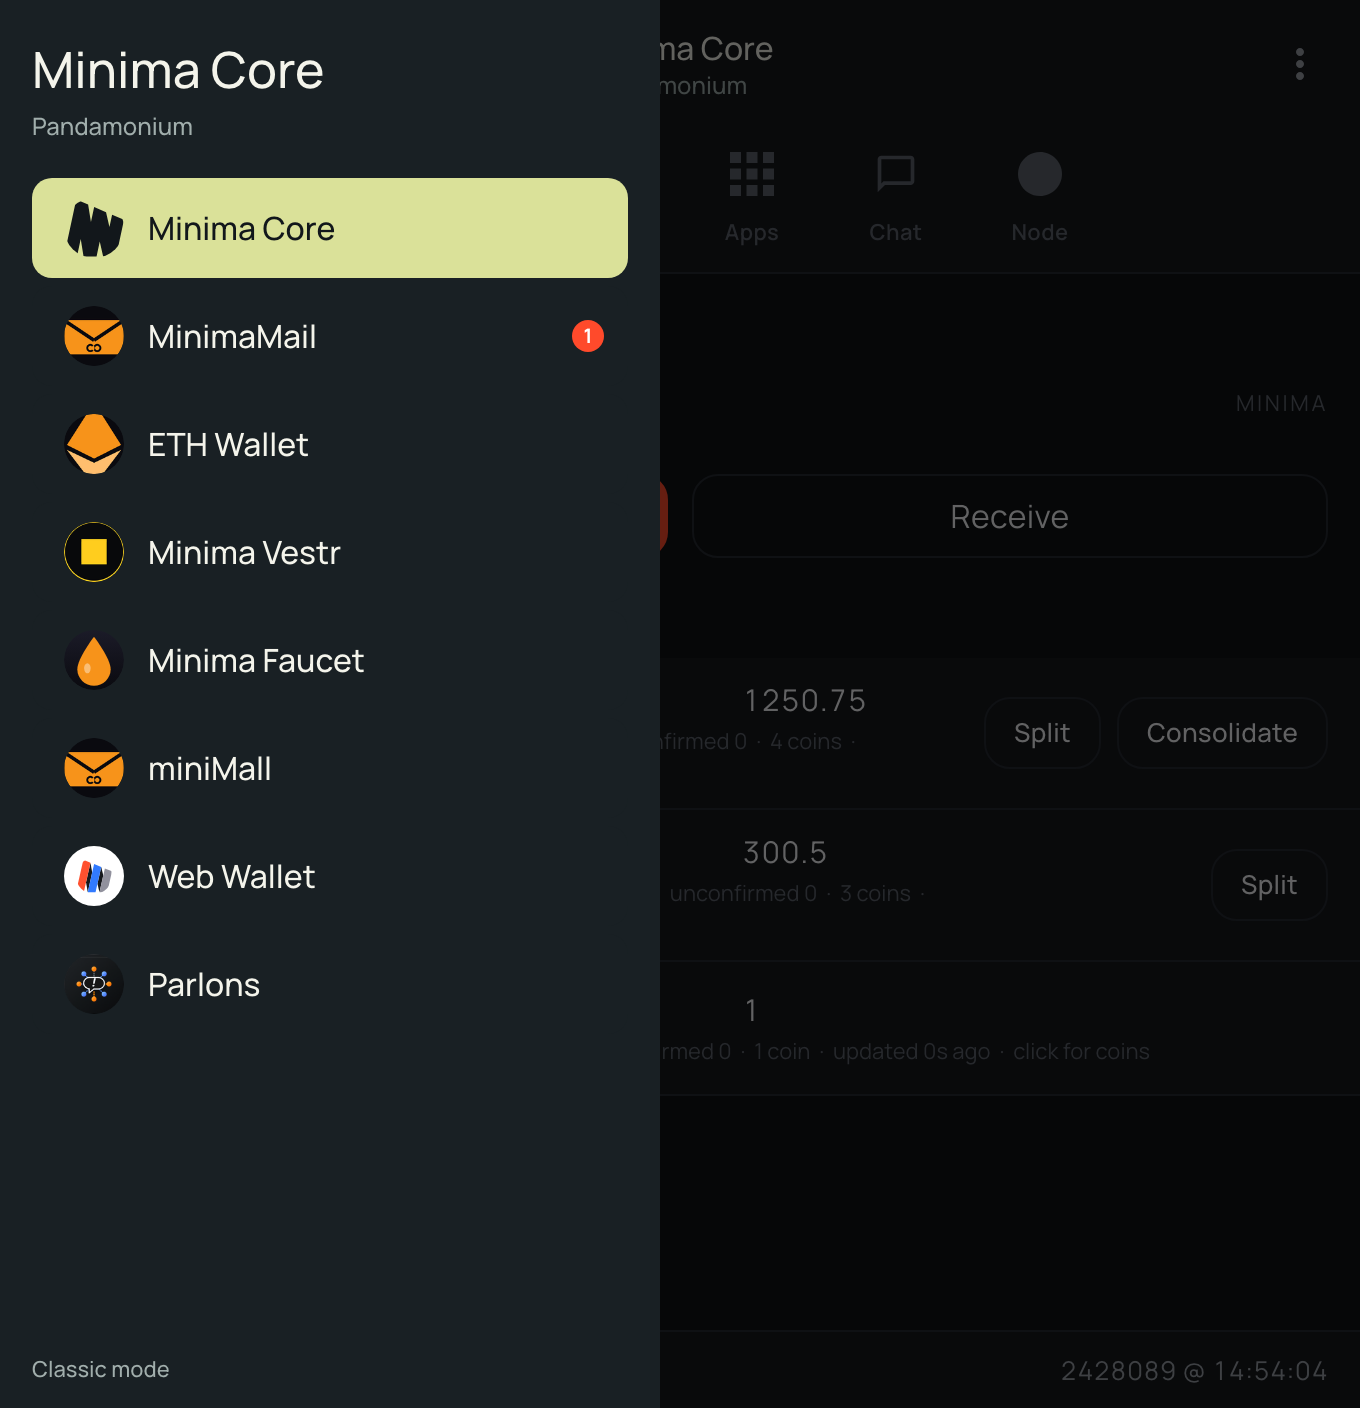
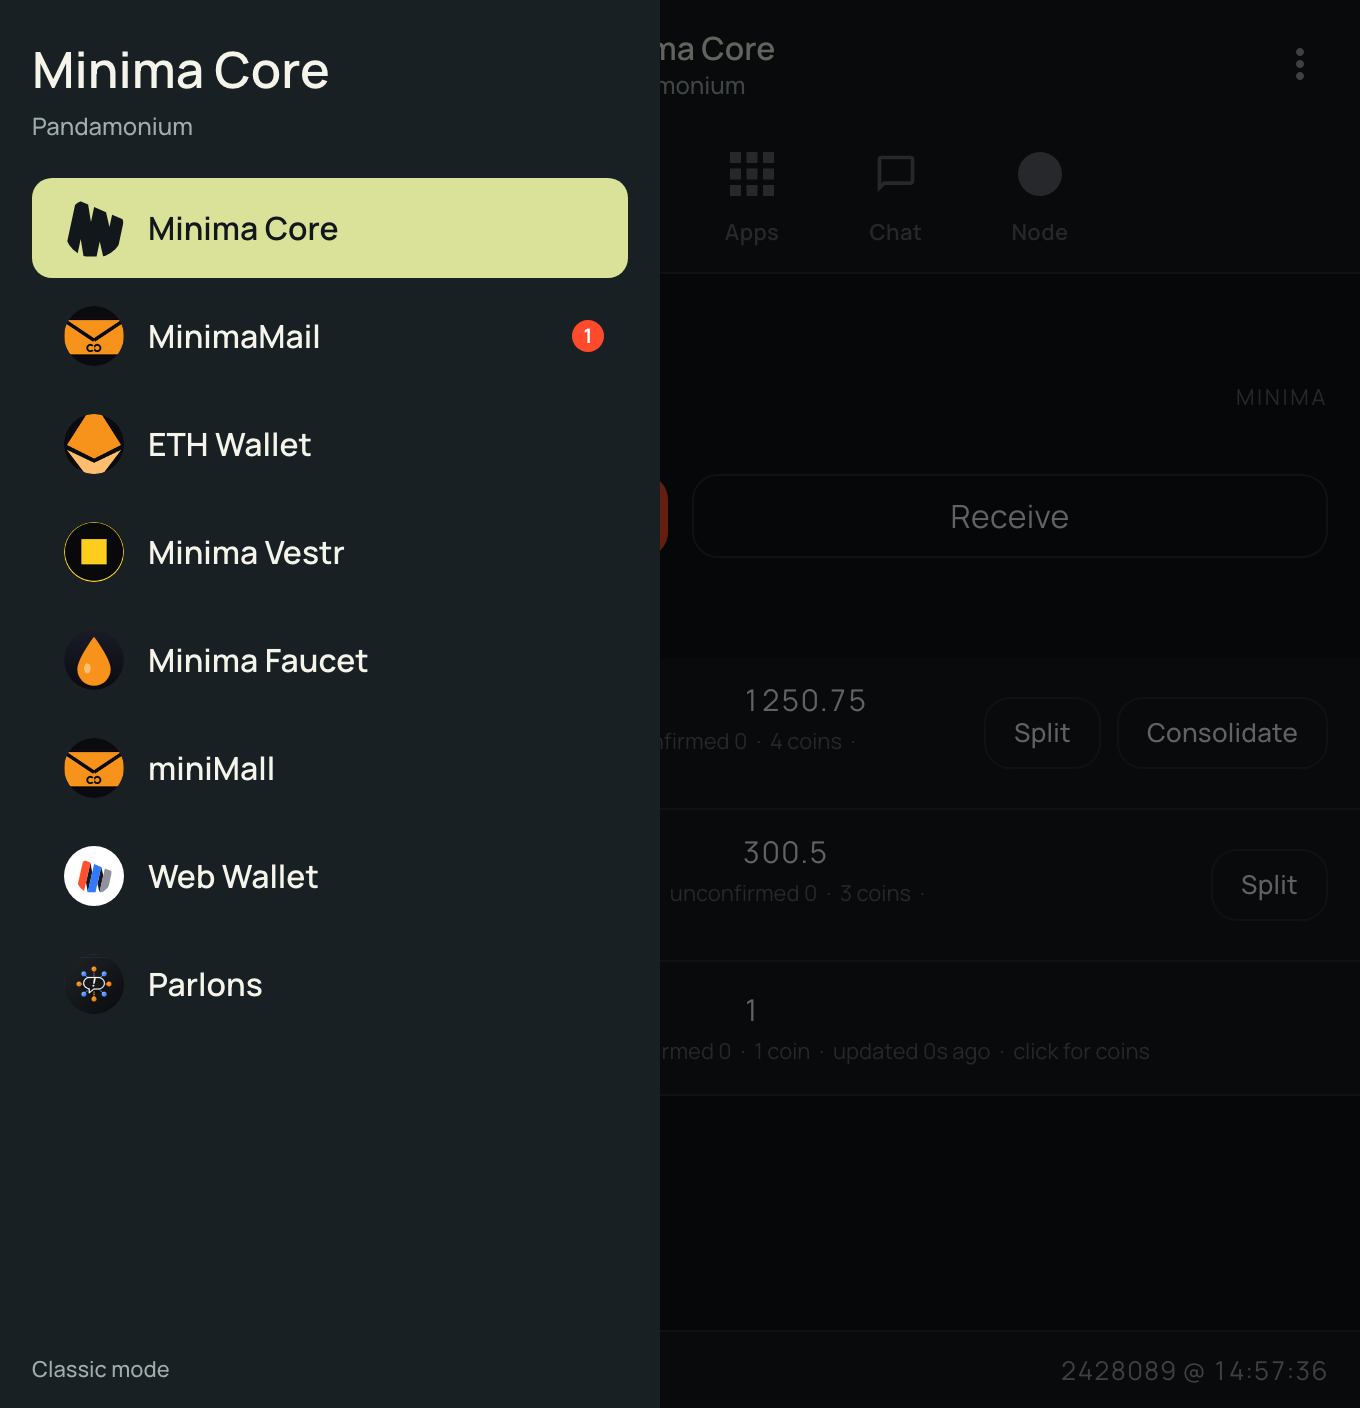
0.18.73: shell fixes from the side-by-side with the Fold captures — toolbar title, tray heading and tray rows at Manrope 600, the MINIMA label on the balance baseline; preview captures refreshed

diff --git a/renderer/shell.css b/renderer/shell.css
@@ -10,6 +10,9 @@
    Letter spacing: the phone's Body text inherits Material 3's .03em and its Caption
    text .018em; they are part of how it looks, so they are set here too.
 
+   The toolbar title and the tray are set in the system face at medium weight on
+   the phone (Roboto); here they are Manrope 600, the nearest weight by eye.
+
    Weights: the phone's TextAppearances ask for 600 to 800, but the app on the
    device draws body text, numerals, buttons and eyebrows at Manrope Regular.
    The phone wins, so those are 400 here. Tab labels are 600 on the phone too.
@@ -68,7 +71,7 @@
 .bar__more--update::after { content: ""; }
 /* "Minima Core" over "Pandamonium": the pair is centred in the bar, the two lines share a left edge */
 .bar__titles { position: absolute; left: 50%; top: 50%; transform: translate(-50%, -50%); text-align: left; white-space: nowrap; pointer-events: none; }
-.bar__brand { font-size: 16px; font-weight: 500; line-height: 21px; color: var(--bar-brand); }
+.bar__brand { font-size: 16px; font-weight: 600; line-height: 21px; color: var(--bar-brand); }
 .bar__sub { font-size: 12px; font-weight: 500; line-height: 16px; color: var(--bar-sub); }
 .bar__page { font-size: 18px; font-weight: 700; letter-spacing: -.01em; color: var(--text); margin: 0 0 0 12px; }
 
@@ -123,12 +126,12 @@
 /* ---------------------------------------------------------------- app tray (PandamoniumHooks) */
 .tray { flex: 0 0 330px; width: 330px; max-width: 88vw; height: 100%; display: flex; flex-direction: column;
   padding: 18px 16px 12px; background: var(--tray-panel); color: var(--tray-text); }
-.tray__title { font-size: 25px; font-weight: 500; line-height: 33px; }
+.tray__title { font-size: 25px; font-weight: 600; line-height: 33px; }
 .tray__sub { font-size: 12px; font-weight: 500; line-height: 16px; color: var(--tray-muted); padding: 4px 0 18px; }
 .tray__list { flex: 1 1 0; min-height: 0; overflow-y: auto; margin: 0 -4px; padding: 0 4px; }
 .tray__row { width: 100%; height: 50px; margin: 0 0 4px; padding: 0 12px 0 16px; display: flex; align-items: center; gap: 12px;
   border: 0; border-radius: 10px; background: var(--tray-panel); color: var(--tray-text); cursor: pointer; text-align: left;
-  font: 500 16px/1.2 var(--sans); }
+  font: 600 16px/1.2 var(--sans); }
 .tray__row:hover { background: #212A2F; }
 .tray__ic { flex: 0 0 30px; width: 30px; height: 30px; border-radius: 50%; display: block; fill: currentColor; }
 img.tray__ic[src$="minima-mark.svg"] { background: #fff; padding: 6px; }
@@ -157,7 +160,7 @@ img.tray__ic[src$="minima-mark.svg"] { background: #fff; padding: 6px; }
 .wal-total { display: flex; align-items: flex-end; padding: 5px 16px 0; }
 .wal-total__n { flex: 1 1 auto; min-width: 0; font-size: 26px; font-weight: 400; line-height: 36px;
   color: var(--text); font-variant-numeric: tabular-nums; overflow-wrap: anywhere; user-select: text; }
-.wal-total .eyebrow { margin: 0 0 6px 8px; }
+.wal-total .eyebrow { margin: 0 0 9px 8px; }
 .wal-actions { display: flex; gap: 12px; padding: 21px 16px 8px; }
 .wal-actions .btn { flex: 1 1 0; min-height: 42px; height: 42px; font-size: 16px; font-weight: 400; }
 .wal-eyebrow { padding: 18px 16px 8px; line-height: 16px; }

diff --git a/CHANGELOG.md b/CHANGELOG.md
@@ -7,6 +7,11 @@ matching [GitHub Release](../../releases).
 
 ---
 
+## [0.18.73] — shell: fixes from the side-by-side with the Fold
+
+- After comparing each screen with the Fold captures: the toolbar title, the tray heading and the tray rows are Manrope 600 (the phone sets them in its system face at medium weight, which is heavier than Manrope 500), and the "MINIMA" label beside Total balance sits on the figure's baseline.
+- `scripts/dev-preview/shots/` holds the final captures (fixture data): Wallet, Apps, Node, tray, overflow menu, ETH Wallet, Mail and Receive in dark and light, plus a 1440 x 900 window and a 680 px wide one.
+
 ## [0.18.72] — Node tab laid out as Pandamonium's
 
 - The Node tab is the phone's: a NODE card (Status with its dot, Block, Block time, Connections, Incoming, Random peer) and an IDENTITY card (Key uses as the large figure, Minima version, App version). Key uses, the random peer and the incoming count come from the same three read-only commands the phone uses (`keys`, `peers`, `network`), at most every 30 seconds while the tab is showing.

diff --git a/docs/PANDAMONIUM_DESKTOP_PLAN.md b/docs/PANDAMONIUM_DESKTOP_PLAN.md
@@ -155,6 +155,7 @@ complete. miniMall is kept. Nothing is pushed or released without the owner's wo
 | 0.18.70 | 1 | Tray rows reorder by drag or Alt+Up / Alt+Down; Minima Core pinned; order saved |
 | 0.18.71 | 1 | Apps tab: Internal list with a Hide switch per app (saved); Minima Core locked; no Freeze, no External |
 | 0.18.72 | 1 | Node tab as the phone: NODE card (Status, Block, Block time, Connections, Incoming, Random peer), IDENTITY card (Key uses, Minima, App version), then the desktop controls and log |
+| 0.18.73 | 1 | Comparison round against the Fold captures: toolbar and tray title weight, MINIMA label baseline; preview captures refreshed |
 
 Phase 0 change of scope: the data folder is not pinned, because the app is not being renamed (D2).
 Known failures that predate this branch (fail on `origin/master` 0.18.64): `scripts/panels-test.cjs` "overlay sites";
